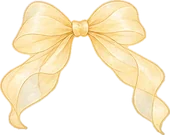
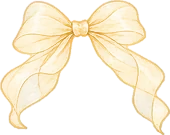
オーガンジーリボン：ふんわり透けるように（輪郭線と結び目ははっきり）
Claude-Session: https://claude.ai/code/session_01LsuWBkhUDp3d2Zrt24Lv8i

Changed region(s): [[0.0882, 0.0, 1.0, 0.9481], [0.0, 0.5333, 0.1471, 0.9481], [0.9412, 0.9778, 0.9706, 1.0]]

diff --git a/js/app.js b/js/app.js
@@ -23,7 +23,7 @@ const KCAL_PER_FAT_G = 7.2;  // 体脂肪1gあたりのカロリー
 // 保存名はすべて「n-app-」で始める（同じサイト上のほかのアプリとまざらないように）
 const STORAGE_KEY = "n-app-data";
 const LEGACY_STORAGE_KEY = "n-undou-bin.v1"; // 前の保存名（自動で引っ越す）
-const APP_VERSION = "11/30-55"; // 更新するたびに変える（設定画面に表示）
+const APP_VERSION = "11/30-56"; // 更新するたびに変える（設定画面に表示）
 
 // ---------- データの読み書き ----------
 

diff --git a/sw.js b/sw.js
@@ -9,8 +9,8 @@
 // ★ プログラムを直したら CODE_VERSION を、今ある画像を描き直したら IMAGE_VERSION を、必ず1つ上げる。
 //   （新しい画像を足しただけなら IMAGE_VERSION はそのまま。足した分だけダウンロードされる）
 importScripts("js/bottles.js", "js/bigbottles.js", "js/series.js");
-const CODE_VERSION = 158;
-const IMAGE_VERSION = 9;
+const CODE_VERSION = 159;
+const IMAGE_VERSION = 10;
 const CODE_CACHE = `n-app-cache-v${CODE_VERSION}`;
 const IMAGE_CACHE = `n-app-images-v${IMAGE_VERSION}`;
 
